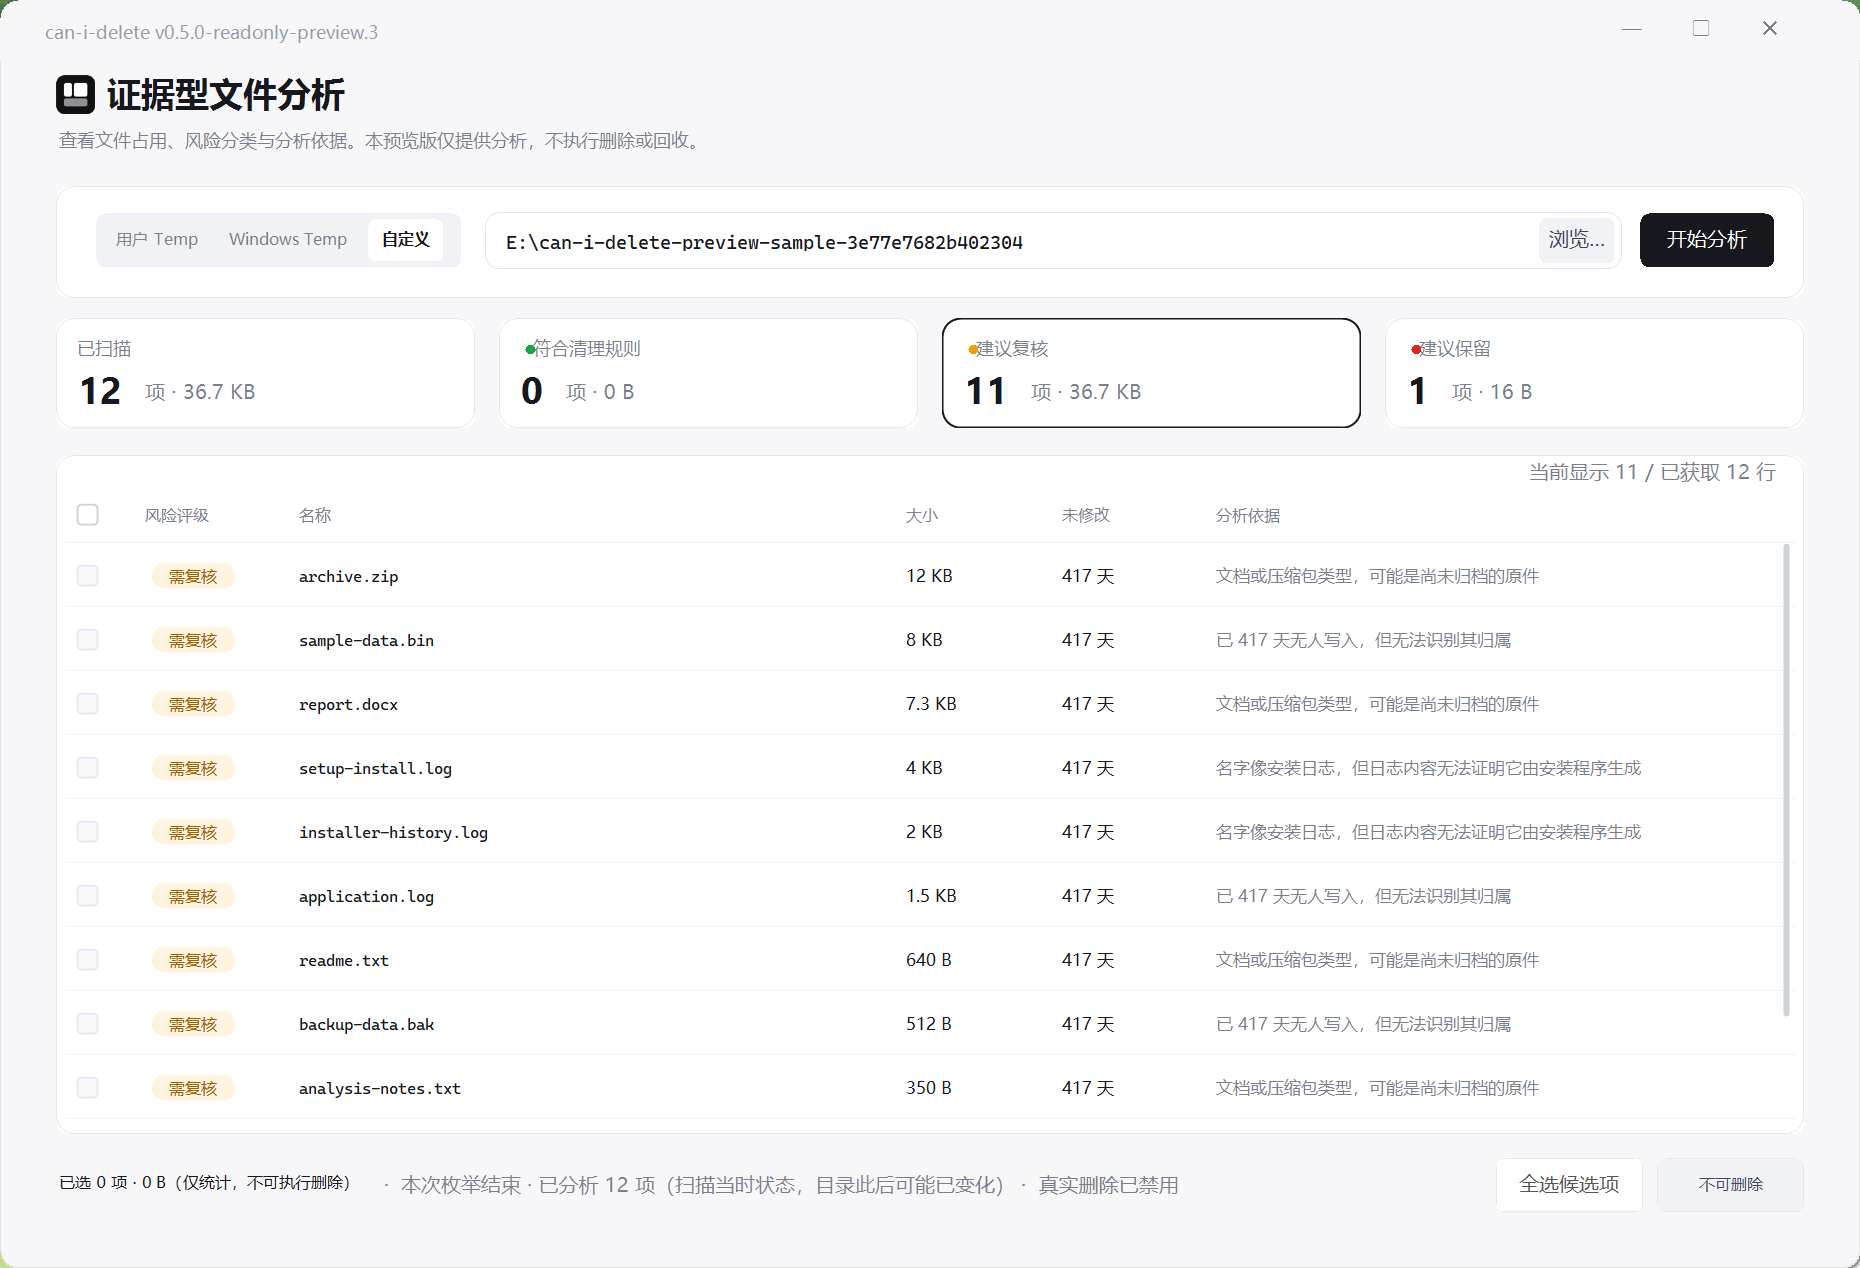
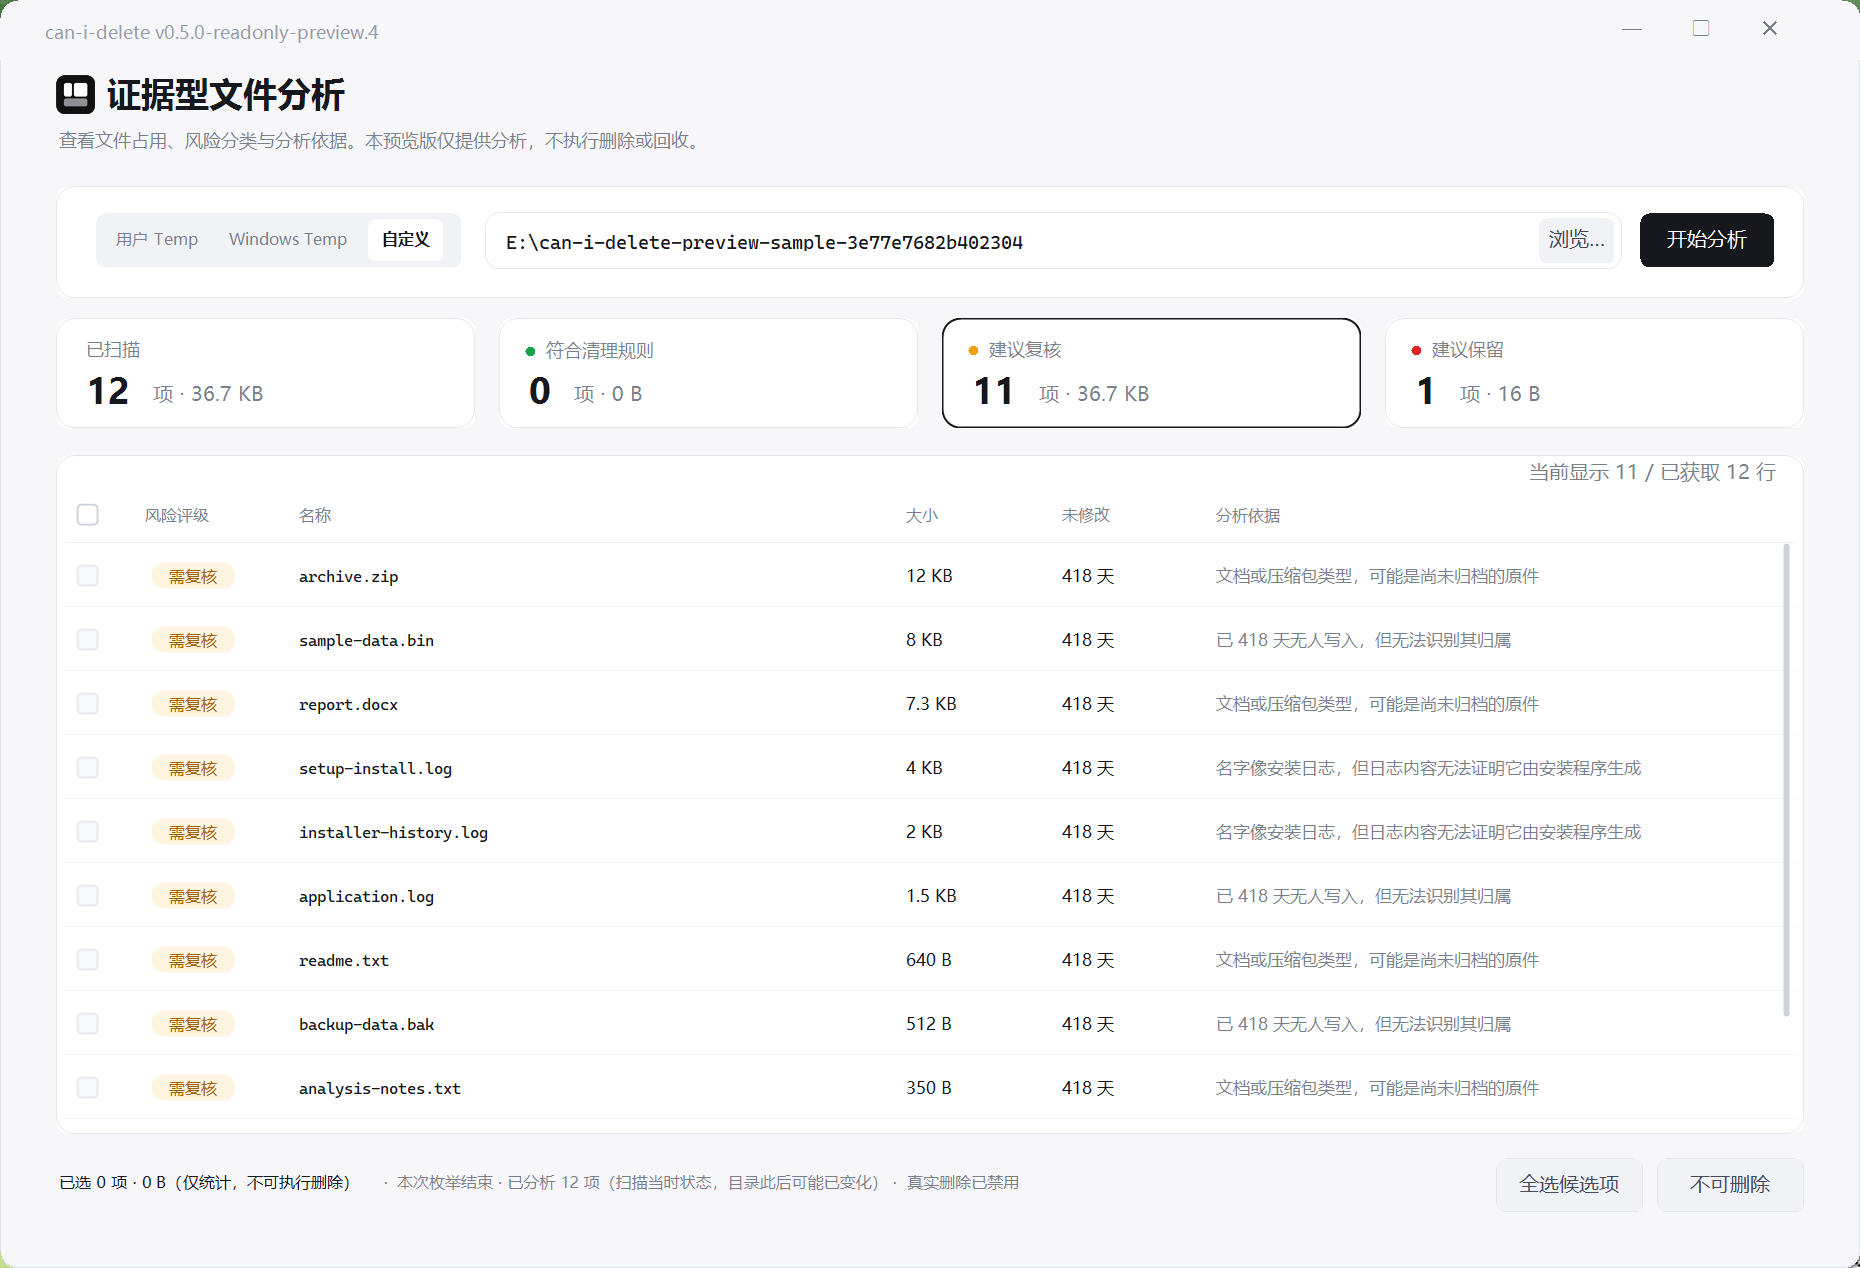
Publish can-i-delete read-only preview revision 3

diff --git a/RELEASE-NOTES.md b/RELEASE-NOTES.md
@@ -1,7 +1,16 @@
 # Release Notes — can-i-delete v0.5.0 Read-only Preview
 
-发布标签：`v0.5.0-readonly-preview.3`  
+发布标签：`v0.5.0-readonly-preview.4`  
 发布性质：免费只读预览版，GitHub **Pre-release**。
+
+## 修订版 .4
+
+- 统计卡改用统一的内部布局规则：标题墨迹顶固定、数值按基线对齐、单位与数字同基线，数值距卡片底边保留约 16 逻辑像素的留白；四张卡宽度完全一致。
+- 底栏两个按钮统一为同一套宽度/高度/字号/圆角/间距；禁用时同为灰底灰字，可操作时回到白底深字。
+- 证据抽屉的“完整路径”改为可换行显示全文，并新增“复制完整路径”按钮；判定说明改为中文优先，`USER-DOC`、`PolicyEligible`、`ExecutionAllowed` 等技术标识保留在括号内作为补充证据。
+- 抽屉左缘增加一条很轻的投影，展开时主内容按剩余宽度重排，卡片与表格圆角完整，不再像被硬切。
+- 程序集版本/文件版本为 `0.5.0.4`，产品显示版本为 `v0.5.0-readonly-preview.4`。
+- 未改动扫描算法、安全规则、回收站后端与两道删除闸门。
 
 ## 修订版 .3
 
@@ -9,7 +18,7 @@
 - 路径框内容与来源页签保持一致：输入或选择非 Temp 目录时高亮“自定义”，不再出现“用户 Temp”高亮却扫描 E 盘目录的错位。
 - 没有符合规则的候选项时，“全选候选项”按钮为不可用状态；勾选行为仍仅用于统计，不能触发任何删除。
 - 底栏禁用按钮文字由“只读预览 · 不可删除”简化为“不可删除”，消除换行裁切；只读预览状态仍由窗口标题、副标题和底栏共同标明。
-- 补上程序集版本、文件版本与产品显示版本（0.5.0.3 / v0.5.0-readonly-preview.3），不再使用 0.0.0.0。
+- 补上程序集版本、文件版本与产品显示版本（0.5.0.4 / v0.5.0-readonly-preview.4），不再使用 0.0.0.0。
 
 ## 修订版 .2
 
@@ -46,7 +55,7 @@
 
 ## 本次检查结果
 
-- 从指定提交 `b1f13773496e50bc23454e6d77e4fcc2ecdc9beb` 重新构建；没有使用仓库里的旧 EXE。
+- 从指定提交 `18b4e1a68fe74c1f75055b5f35de4a3f0730854c` 重新构建；没有使用仓库里的旧 EXE。
 - 外部 gateprobe：通过，两道删除闸门均为 false。
 - 现有 SelfTest：380/380，通过；LegacyRepro：17/17，通过。
 - 真实桌面截图复查：路径框为 E 盘样本目录时来源页签高亮“自定义”；无候选项时“全选候选项”为禁用态；“不可删除”按钮单行显示，实测文字宽 74px、按钮宽 147px，无溢出或裁切。
@@ -61,7 +70,7 @@
 - **.NET Framework 4.8+ 必需**。本机实测为 4.8.1；未做较旧运行时、Windows 10、ARM64 或 32 位 Windows 的本次实测。
 - **未代码签名**：Windows 或安全软件可能出现未知发布者/信誉提示；不得把 SHA-256 一致解读为系统已经认可其安全。
 - **DPI/字体**：原生 150%、2560×1600 已现场检查。小屏幕、其他 DPI、跨屏缩放及替代字体下，表格或证据抽屉可能裁切、拥挤；不承诺任意缩放下无问题。证据抽屉显示时可用 Ctrl+C 复制完整证据文字。
-- **版本元数据**：程序集版本与文件版本为 0.5.0.3，产品显示版本为 `v0.5.0-readonly-preview.3`；仍建议用公开标签、包名及校验值交叉核对。
+- **版本元数据**：程序集版本与文件版本为 0.5.0.4，产品显示版本为 `v0.5.0-readonly-preview.4`；仍建议用公开标签、包名及校验值交叉核对。
 - **分析不是保证**：软件归属可能只是推断；规则命中、文件年龄、缓存外观不等于可以安全删除。
 - **动态文件系统**：并发写入、权限、重解析点和预算限制可使结果不完整。应用不写入扫描目录；Windows 自身可能因读取更新访问时间。
 

diff --git a/README.md b/README.md
@@ -14,7 +14,7 @@
 5. EXE 尚未代码签名，下载后 Windows/SmartScreen 可能提示发布者未知。请先核对本 Release 的 SHA-256；校验只能确认文件一致，不等于安全保证。不要为了运行而关闭安全软件。
 
 公开下载仓库：<https://github.com/Feli999ovo/can-i-delete-preview>。
-[下载 v0.5.0 Read-only Preview](https://github.com/Feli999ovo/can-i-delete-preview/releases/tag/v0.5.0-readonly-preview.3)
+[下载 v0.5.0 Read-only Preview](https://github.com/Feli999ovo/can-i-delete-preview/releases/tag/v0.5.0-readonly-preview.4)
 
 此公开仓库仅分发 Windows 二进制、许可和使用文档，**不提供应用源码，不宣称源码已公开**。
 
@@ -44,6 +44,7 @@
 - 文件系统或其他程序可能在扫描期间变化；读取还可能由 Windows 更新访问时间等系统元数据。因此结果是扫描当时的观察，不是目录永久不变的保证。
 - 界面为“证据型文件分析”；副标题明确说明仅提供分析，不执行删除或回收。底栏禁用按钮写明“不可删除”；窗口标题与底栏同时说明本预览版仅提供分析，勾选只用于统计。
 - 没有符合规则的候选项时，“全选候选项”按钮不可用；出现候选项后才可操作。
+- 证据抽屉里的“完整路径”可以换行显示全文，也可以点“复制完整路径”一键复制；抽屉里的判定说明用中文表述，技术标识放在括号里作为补充。
 
 ## 系统要求与已验证范围
 
@@ -70,6 +71,6 @@
 
 - Release 外部 `SHA256SUMS.txt` 提供 ZIP 校验值；解压后的同名文件提供 EXE、说明和截图校验值。
 - 在 PowerShell 中运行：`Get-FileHash .\can-i-delete-v0.5.0-readonly-preview-win.zip -Algorithm SHA256`。
-- 发布标签为 `v0.5.0-readonly-preview.3`，产品来源为提交 `b1f13773496e50bc23454e6d77e4fcc2ecdc9beb`，见 `BUILD-INFO.txt`。
-- EXE 内部程序集版本与文件版本均为 `0.5.0.3`，产品显示版本为 `v0.5.0-readonly-preview.3`；可用发布标签与 SHA-256 交叉核对。
+- 发布标签为 `v0.5.0-readonly-preview.4`，产品来源为提交 `18b4e1a68fe74c1f75055b5f35de4a3f0730854c`，见 `BUILD-INFO.txt`。
+- EXE 内部程序集版本与文件版本均为 `0.5.0.4`，产品显示版本为 `v0.5.0-readonly-preview.4`；可用发布标签与 SHA-256 交叉核对。
 - 免费，附原项目 MIT 许可与版权声明；详见 `LICENSE`。此处提供许可文本不表示应用源码已在本仓库公开。已知限制见 [RELEASE-NOTES.md](RELEASE-NOTES.md)。
